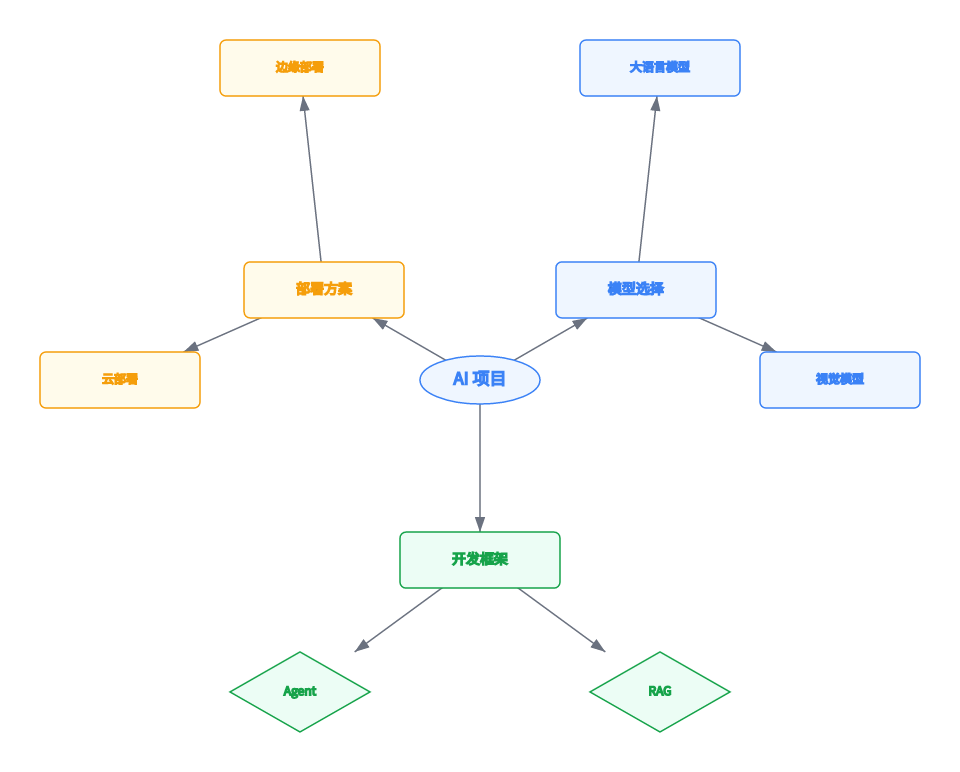
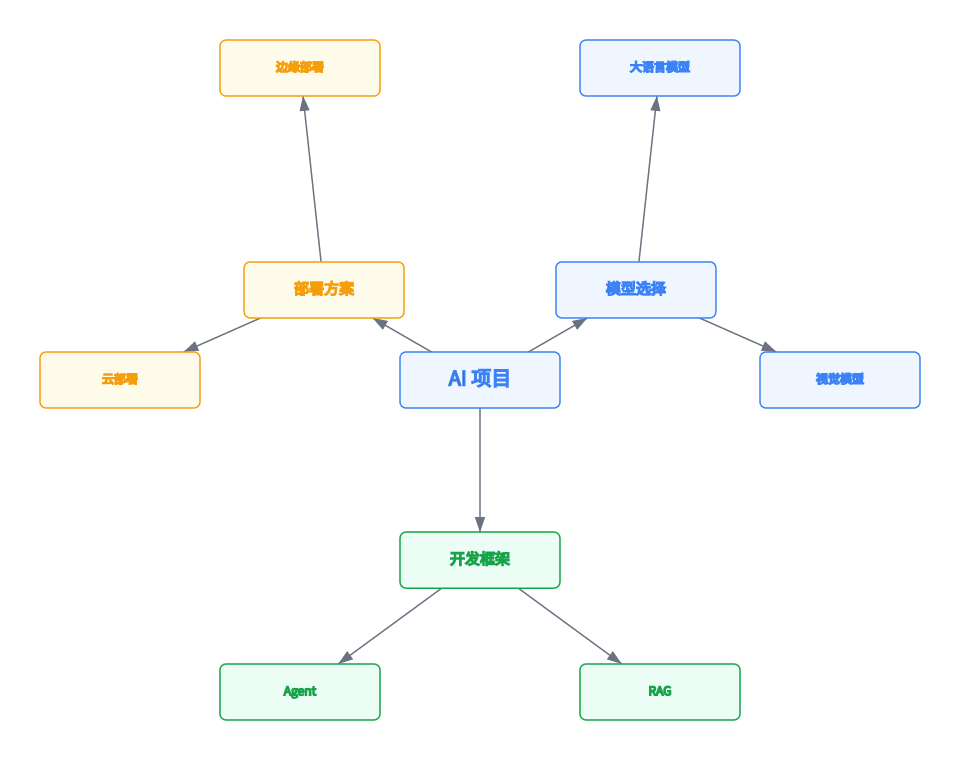
fix(render): mindmap visual consistency — no flowchart shapes, clearer hierarchy
Vision review of the mindmap example flagged RAG/Agent as diamonds
(kind: decision) while sibling nodes were rounded rects. In a mindmap
there is no 'decision' role — decision diamonds and start/end pills are
flowchart concepts leaking into the radial layout.

- render: mindmap mode renders every node as a rounded rect (branch
  colors + font size carry the hierarchy, not kind shapes)
- layout: mindmap nodes are uniformly sized (160x56) so the radial
  layout stays even
- render: font hierarchy made distinct: root 20px / level1 15px /
  level2 12px (was 17/14/12)
- ascii: mindmap nodes are plain boxes too (no <> diamond markers)
- vision re-verified with doubao: unified shapes, clear font levels,
  distinct branch colors, correct arrow directions, no overflow

Other review claims (reversed arrows, uneven spacing, no font levels)
were verified as model misreads: geometry shows all 9 edges point
root->child and all level-1 nodes sit at the same radius; 2x render
confirmed arrowheads point outward.

diff --git a/packages/render/src/index.ts b/packages/render/src/index.ts
@@ -589,7 +589,11 @@ function renderGeneral(doc: LgdlDocument, layout: LayoutResult, mode: 'default' 
       continue;
     }
     const kind = lgdlNode.kind ?? 'process';
-    const shape = SHAPES[kind] ?? SHAPES.process;
+    // mindmap has no branching/terminal shapes: every node is a rounded
+    // rect (decision diamonds and start/end pills are flowchart concepts —
+    // in a mindmap they only break visual consistency). Hierarchy is shown
+    // by branch colors and font size, not by kind shapes.
+    const shape = mindmapInfo ? SHAPES.process : (SHAPES[kind] ?? SHAPES.process);
     let fill = FILL_BY_KIND[kind] ?? FILL_BY_KIND.process;
     let stroke = STROKE_BY_KIND[kind] ?? STROKE_BY_KIND.process;
     let fontSize = 13;
@@ -600,7 +604,8 @@ function renderGeneral(doc: LgdlDocument, layout: LayoutResult, mode: 'default' 
         const color = info.branch === 'root' ? MIND_COLORS[0] : MIND_COLORS[info.branchIndex % MIND_COLORS.length];
         fill = info.branch === 'root' ? '#eff6ff' : MIND_FILLS[info.branchIndex % MIND_FILLS.length];
         stroke = color;
-        fontSize = info.depth === 0 ? 17 : info.depth === 1 ? 14 : 12;
+        // distinct font hierarchy: root > level 1 > level 2
+        fontSize = info.depth === 0 ? 20 : info.depth === 1 ? 15 : 12;
       }
     }
     const cx = node.x + node.width / 2;

diff --git a/packages/render/src/ascii.ts b/packages/render/src/ascii.ts
@@ -177,8 +177,10 @@ export function renderAscii(doc: LgdlDocument, layout: LayoutResult): string {
     const labelW = strWidth(label);
     const w = labelW + 4;
     const kind = n.kind ?? 'process';
-    const rounded = kind === 'start' || kind === 'end';
-    const isDecision = kind === 'decision';
+    // mindmap: no branching/terminal shapes — every node is a plain box
+    const isMindmap = doc.type === 'mindmap';
+    const rounded = !isMindmap && (kind === 'start' || kind === 'end');
+    const isDecision = !isMindmap && kind === 'decision';
     const tl = rounded ? BOX.tlR : BOX.tl;
     const tr = rounded ? BOX.trR : BOX.tr;
     const bl = rounded ? BOX.blR : BOX.bl;

diff --git a/packages/layout/src/index.ts b/packages/layout/src/index.ts
@@ -221,7 +221,10 @@ const MIND_LEVEL_SEP = 180; // radial distance between levels
 const MIND_ANGLE_UNIT = (Math.PI / 180) * 14; // radians per leaf
 
 function layoutMindmap(doc: LgdlDocument): LayoutResult {
-  const sizeOf = (id: string) => NODE_SIZE[doc.nodes.find((n) => n.id === id)?.kind ?? 'process'] ?? NODE_SIZE.process;
+  // mindmap nodes are uniformly sized — kind shapes (decision diamond,
+  // start pill) are flowchart concepts and are ignored here so the radial
+  // layout stays visually even
+  const sizeOf = (_id: string) => NODE_SIZE.process;
 
   // adjacency + in-degree
   const childrenOf = new Map<string, string[]>();

diff --git a/CHANGELOG.md b/CHANGELOG.md
@@ -2,6 +2,14 @@
 
 ## 0.4.0（未发布）
 
+**渲染改进：mindmap 视觉一致性（评审驱动）**
+
+- 🎨 mindmap 不再使用 flowchart 概念形状：`decision` 菱形、`start/end` 胶囊在思维导图语义中无意义，全部统一为圆角矩形（识图评审指出 RAG/Agent 菱形突兀）
+- 🎨 布局同步：mindmap 节点统一尺寸（160×56），径向布局更均匀
+- 🎨 字号层级加大区分度：中心主题 20px → 一级 15px → 二级 12px（原 17/14/12 层级感不足）
+- ASCII 渲染同步（mindmap 下所有节点普通方框，无 `< >` 菱形标记）
+
+
 **新特性：聚合边（group 间关系）**
 
 - 🆕 edge 的 `from`/`to` 支持 **group id**：group→group、group→node、node→group
